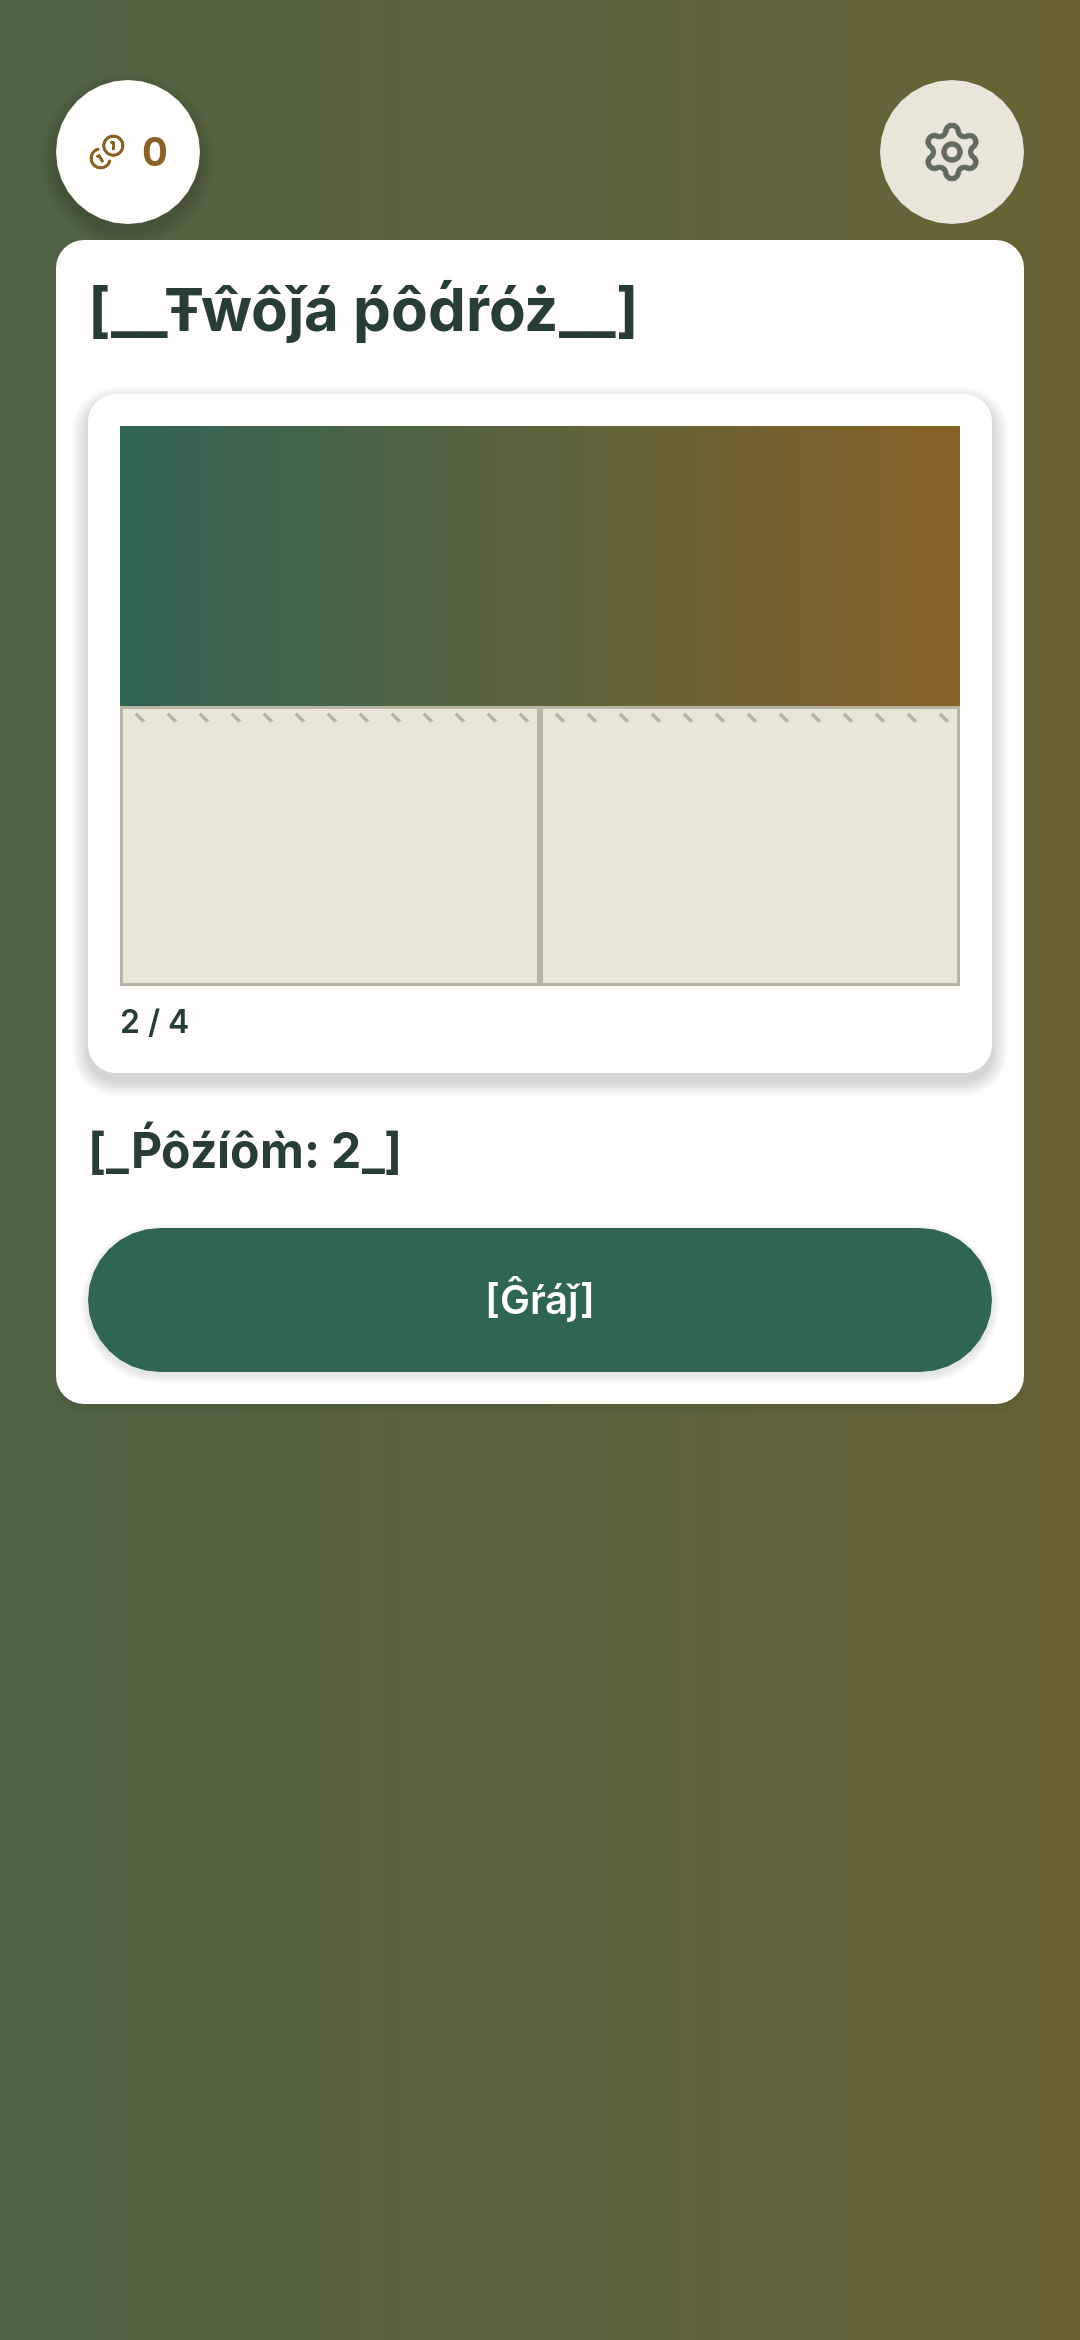
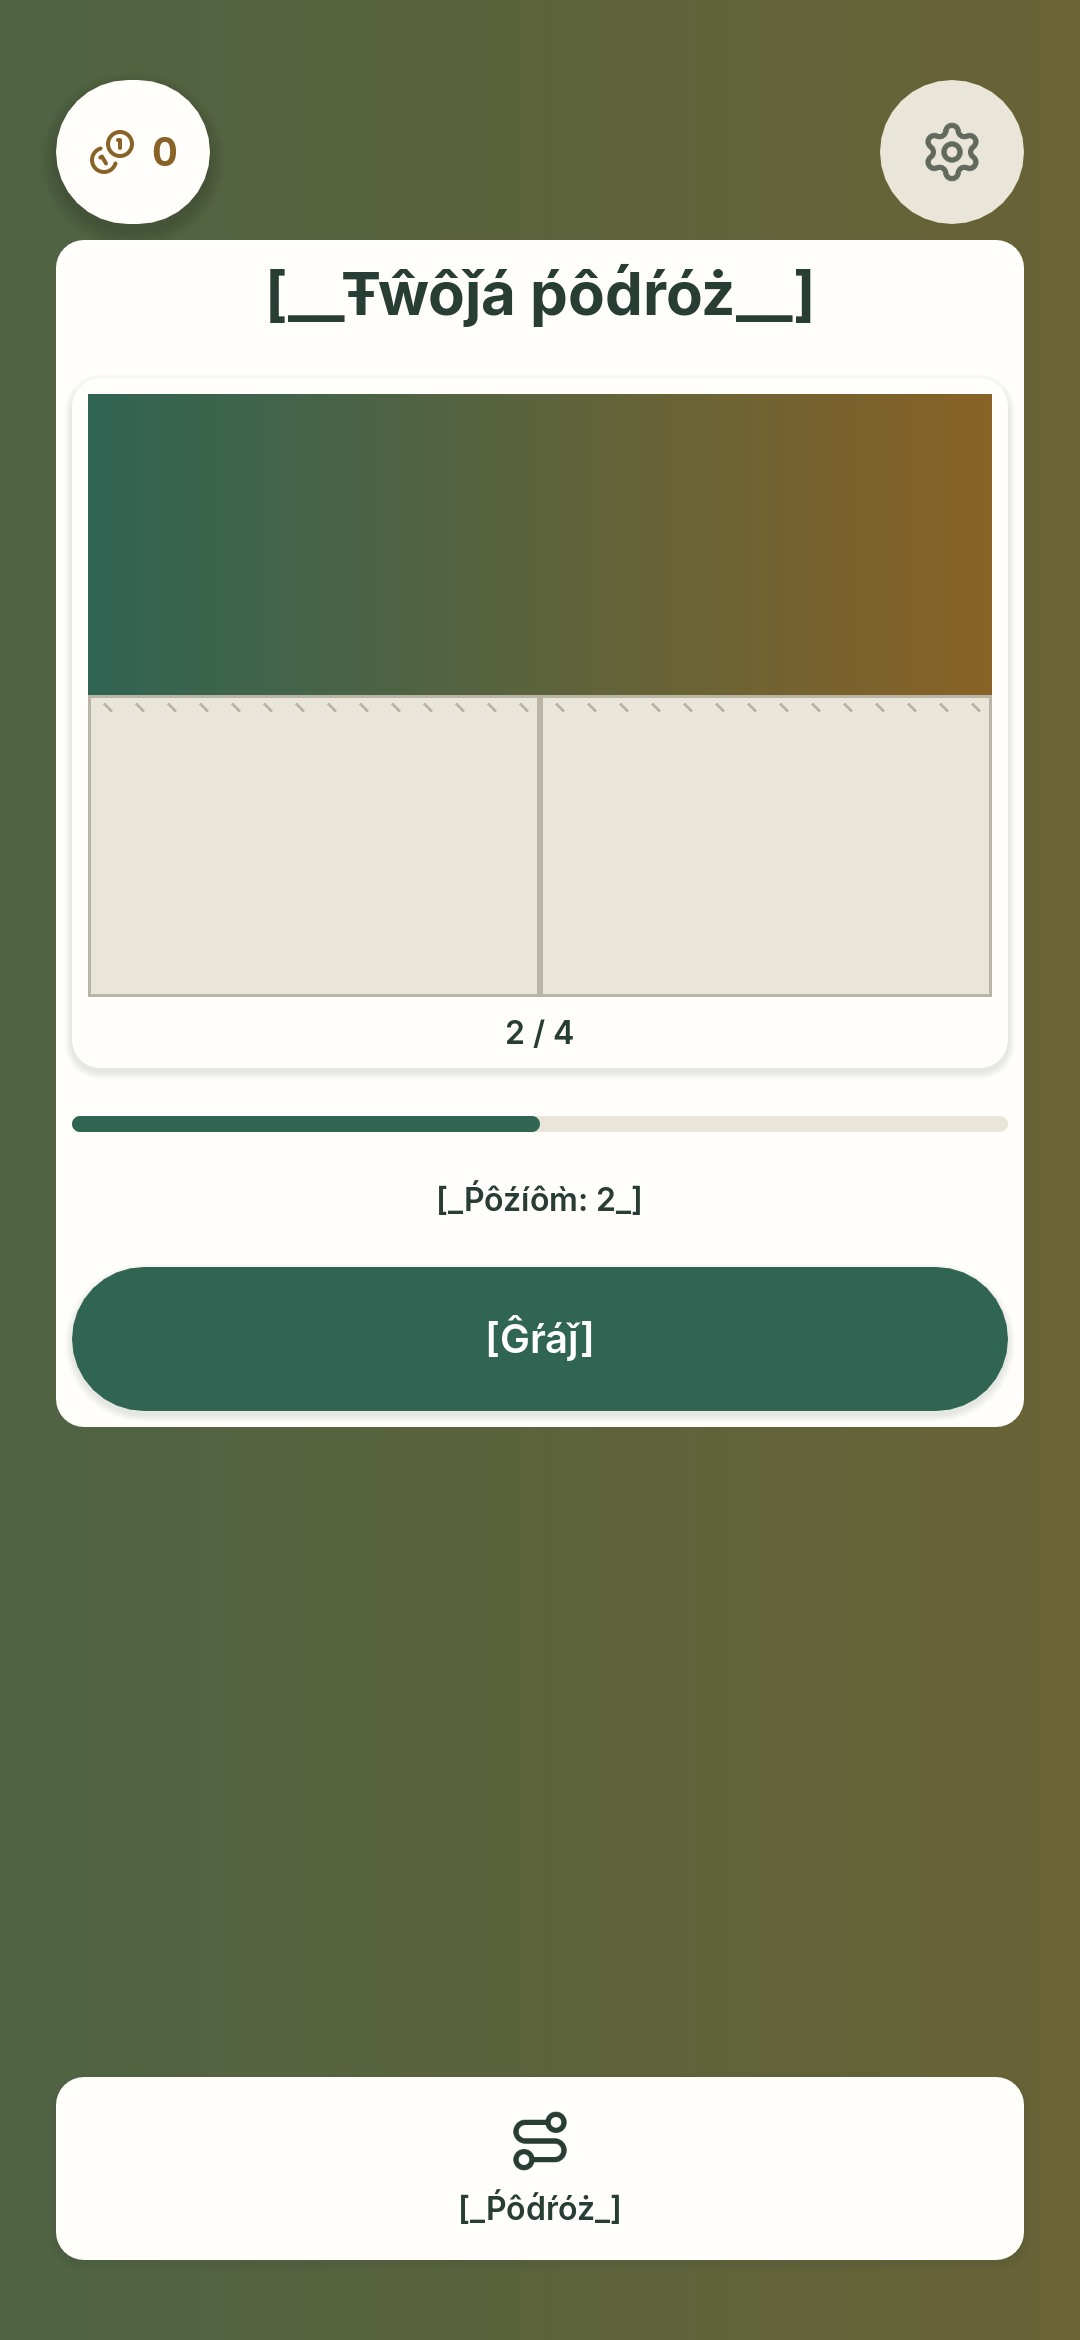
fix(home): lighten postcard and clarify durable progress [T-0244]

Changed region(s): [[0.0611, 0.0936, 0.9472, 0.6239], [0.0306, 0.8735, 0.9472, 0.9671], [0.0917, 0.0312, 0.2139, 0.0936]]

diff --git a/docs/qa/T-0244/README.md b/docs/qa/T-0244/README.md
@@ -7,26 +7,35 @@ so location art cannot reduce text contrast. No reusable component or theme was 
 Reference: [Home mockup](../../design/T-0205/evidence/home_TABLET_PL_default.png).
 The current shipped manifest has no location artwork; production therefore shows the explanatory
 missing-art state and actual durable piece count. The gradient in partial/complete captures is
-an injected review fixture, not final location art. Journey is hidden until T-0245 creates its
+an injected review fixture, not final location art. Journey uses the merged T-0245
 scene; Settings is disabled with explanatory tooltip until its screen exists. Daily/Collection
 remain P3. The next-level caption is adjacent to Play because the existing ActionButton does not
 support parameterized sublabels. Reference-device/taste review remains Chris's pending gate.
 
+## Revision 2 visual corrections
+
+Owner approved the full postcard frame/shadow adjustment and component/test scope expansion.
+Full uses Space.S / Elevation.LOW; thumb retains Space.M / Elevation.MID. Preset switching
+refreshes both styling and geometry. This is an explicit owner override of DESIGN's MID token.
+Home centers title and captions, uses a passive CatalogProgressBar derived only from committed
+pieces, and removes the enclosing surface shadow. Missing-art copy is shorter and avoids
+promising a specific content pack. Settings remains disabled; Journey routes the merged screen.
+PR #171 was superseded by #172; this revision preserves #173/#174 on fresh main e3fe760.
+
 ## Verification
 
-Godot 4.7.2 ed1daf0bf: full make check passed 588/588 GUT, 329 pipeline and 500 tools tests;
-formatting/lint, registries, content, UI strings and generated-theme guards passed. The final
-Home composition also passed native X11/Mesa llvmpipe GUT: 9/9 tests, 133 assertions. Tests verify
-committed values without writes, exact-slot partial-board restoration through the real Level,
-failed routing, unavailable services (including absent/unloaded Config alone), terminal content, partial/complete art, copy/re-entry and
-HC130/PSEUDO safe scrolling in all three layout classes. Existing tests were not changed.
-Task lint: 180 tasks. Scope, independent exact-head review and CI results are recorded in the PR.
+Godot 4.7.2 ed1daf0bf: 614/614 GUT tests pass, including all Home, Journey and Postcard cases.
+The two additional tests cover passive Home progress/copy/no writes and full/thumb styling
+across preset changes. Full make check and scope results are recorded in the PR.
+Native Apple M3 OpenGL/Metal captures cover all 15 states below; their run log contains no
+errors or warnings. Reviewed REGULAR PL partial/missing-art and COMPACT PSEUDO HC130 against
+the reference: centered progress is legible, frame/shadow is lighter, and Play stays reachable.
+Reference-device/taste approval remains Chris's gate.
 
 ## Native screenshots
 
-[capture.gd](capture.gd) reproduces these captures in a native X11 runtime after copying it into
-an isolated Godot project as res://capture244.gd. Run the engine with --path <isolated-game>
---display-driver x11 --rendering-method gl_compatibility --audio-driver Dummy -s res://capture244.gd.
+[capture.gd](capture.gd) reproduces these captures from the repository root:
+`godot --path game --rendering-method gl_compatibility --audio-driver Dummy -s ../docs/qa/T-0244/capture.gd`.
 The script writes only its own user:// capture save and these review PNGs. Fake safe insets are
 24/48 viewport pixels on each side. PL/PSEUDO uses GalleryShell.OPTIONS (35% expansion, accents, no doubled vowels); default100/HC130
 uses the shipped generated themes. Images are settled static UI, with no device certification claim.

diff --git a/tasks/T-0244-home.md b/tasks/T-0244-home.md
@@ -8,9 +8,11 @@ risk: low
 executor: sol
 think: med
 ui: high
-status: done
+status: review
 depends_on: [T-0243, T-0220]
 touch:
+  - game/ui/components/LocationPostcard.gd
+  - game/tests/integration/test_reward_postcard.gd
   - game/features/home/**
   - game/services/nav.gd
   - game/locale/home.csv*
@@ -18,7 +20,7 @@ touch:
   - docs/qa/T-0244/**
   - tasks/T-0220-reward-postcard.md
   - tasks/T-0244-home.md
-revision: 1
+revision: 2
 ---
 
 ## Goal
@@ -31,14 +33,22 @@ next campaign slot and one Play action. Reconcile the already merged T-0220 prer
 - Reference: docs/design/T-0205/evidence/home_TABLET_PL_default.png and DESIGN.md#home.
 
 ## Current state
-Main aac79fa merged T-0243; Nav lazily mounts res://features/home/home.tscn (currently absent),
-provides guarded go_to_level/go_to_screen and owns pending Toasts. Save.committed_view returns
-sections with economy.coins and progress.by_lang[language].current_slot/location_pieces.
-Content.location_for_slot returns name_key, postcard resource path and pieces; the shipped legacy
-manifest has virtual campaign metadata with no art. Content.get_language and slot_count exist.
-Config.get_int(meta.postcard.pieces) is available. ScreenScaffold, TopBar, CurrencyPill,
-IconButton, PrimaryButton, NavTab, LocationPostcard, StatePanel and LocaleCatalog exist.
-Global Progress P2 is deliberately not activated by Nav; do not activate it here.
+Revision 2 starts from main e3fe760, with Home (#172), Journey (#173) and Postcard (#174)
+already merged. Home extends ScreenScaffold and exposes configure and refresh; it mounts
+ReadingSurface, Postcard, MissingArt, Progress, NextLevel and Play. LocationPostcard exposes
+configure(image, total, revealed, mode), with full/thumb presets currently sharing Space.M
+padding and MID shadow. CatalogProgressBar exposes set_value(value, animate). Save, Content,
+Config and Nav contracts remain as implemented and must be preserved.
+
+## Owner-authorized visual revision
+Chris requested Home corrections and explicitly approved LocationPostcard.gd and
+test_reward_postcard.gd scope expansion on 2026-10-14. The full preset uses Space.S padding
+and LOW shadow (owner override of the documented MID visual token); thumb retains M/MID.
+Refresh styling when switching presets. Center Home title/captions, add passive normalized
+progress using CatalogProgressBar, lighten the enclosing reading surface, and shorten missing-art
+copy without promising a particular content update. Preserve Settings/Journey behavior and all
+newer navigation, durable state and reveal behavior. No new public API or component.
+The older parallel PR #171 was closed as superseded; reimplement on fresh main with -r2.
 
 ## Specification
 1. Add Home scene/script extending ScreenScaffold. Nav injects its actual Save/Content/Config and
@@ -76,6 +86,8 @@ Native COMPACT/REGULAR/TABLET, PL/PSEUDO, default100/HC130 captures plus mockup 
 Chris owns reference-device screenshots and taste approval, recorded as pending rather than fabricated.
 
 ## Tests
+Revision 2 additionally verifies full/thumb padding and shadow across preset changes, passive
+Home progress for partial/complete/missing-art states and centered captions without Save writes.
 New test_home.gd: injected-service boot/mount; committed coins/location/pieces/slot and no writes;
 partial saved board resumes through actual Level; failed navigation preserves Home and explains;
 terminal slot never replays; invalid services (including Config alone missing/unloaded)/missing art graceful; configured art partial/complete;
